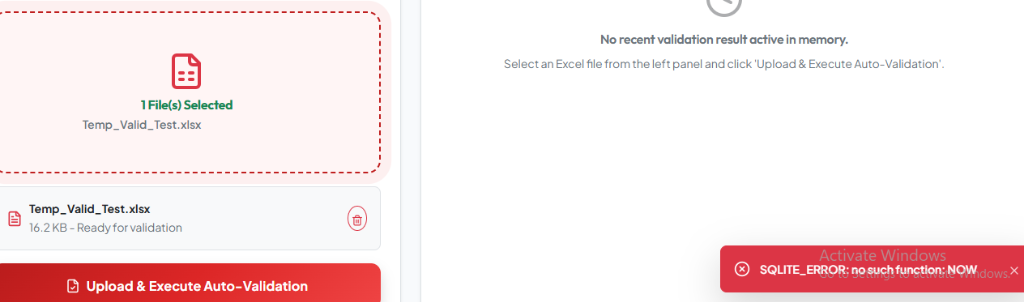
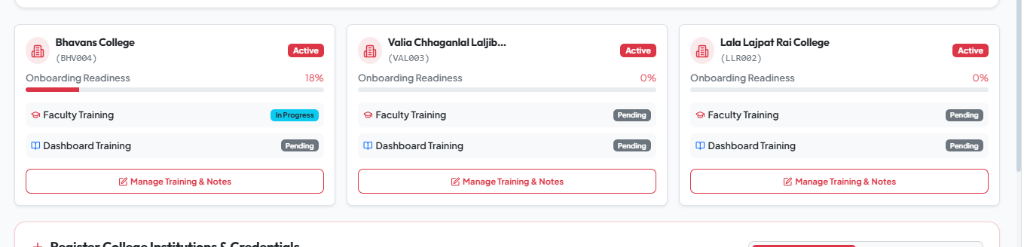
Update README with rich data screenshots showing analytics charts, Power BI feed links, and college submission history

diff --git a/README.md b/README.md
@@ -31,44 +31,51 @@
 
 ---
 
-## 📸 System Screenshots & Interface Preview
+## 📸 System Screenshots & Interface Showcase
 
-### 1. Centralized Authentication Landing Portal
-*Clean Crimson Red & Pure White theme with instant quick-fill demo buttons and dual role access.*
+### 1. Executive Admin Dashboard & Real-Time Analytics
+*Live analytics dashboard featuring data quality scores, status ring breakdowns, branch distribution charts, and direct Power BI JSON data feed integration.*
 
-![Centralized Login Landing Page](docs/screenshots/login_page.png)
-
----
-
-### 2. College Workspace & Automated Validation Engine
-*Drag-and-drop file upload for Excel sheets (.xlsx, .xls) and ZIP archives with instant row-by-row validation feedback.*
-
-![College Dashboard & File Upload Workspace](docs/screenshots/college_dashboard.png)
+![Admin Executive Dashboard & Analytics Charts](docs/screenshots/admin_dashboard_charts.png)
 
 ---
 
-### 3. Admin Submission Review & Remarks Modal
+### 2. Connected Colleges & Training Compliance Tracker
+*Connected colleges table displaying 3-pillar training completion badges (Faculty, Dashboard, Admin), contact info, and account status controls.*
+
+![Connected Colleges Table & Compliance Tracker](docs/screenshots/connected_colleges_table.png)
+
+---
+
+### 3. College Upload Workspace & Validation History
+*College data submission portal displaying active academic year notifications, 3-pillar compliance status, Excel upload dropzone, and history table.*
+
+![College Upload Workspace & Validation History](docs/screenshots/college_dashboard.png)
+
+---
+
+### 4. Admin Submission Review & Remarks Modal
 *Review single submission details, error lists, student rosters, and trigger instant Admin Status updates (Approve, Reject, Correction Requested, In Process).*
 
 ![Admin Submission Review & Remarks Modal](docs/screenshots/admin_review_modal.png)
 
 ---
 
-### 4. Manage Training & Onboarding Modal
-*Side-by-side management and date scheduling for Faculty Training, Dashboard Training, and Admin Training.*
+### 5. Official Excel Template Manager
+*Two-card management portal allowing Admin to view currently published Excel templates and publish updated versioned templates.*
+
+![Official Excel Template Manager](docs/screenshots/official_template_manager.png)
+
+---
+
+### 6. Manage Training & Onboarding Modal
+*Side-by-side date picker and status scheduling for Faculty Training, Dashboard Training, and Admin Training.*
 
 ![Manage Training & Onboarding Modal](docs/screenshots/training_modal.png)
 
 ---
 
-### 5. College Status & Onboarding Inspector
-*Live training readiness status cards, inspector filters, and assigned trainer notes.*
-
-![College Status & Training Inspector Card](docs/screenshots/training_inspector.png)
-
----
-
-### 6. Render 1-Click Blueprint Auto-Deployment
+### 7. Render 1-Click Cloud Deployment Blueprint
 *Unified Docker runtime backend and static site frontend deployment configuration (`render.yaml`).*
 
 ![Render Deployment Blueprint](docs/screenshots/render_blueprint_deployment.png)
